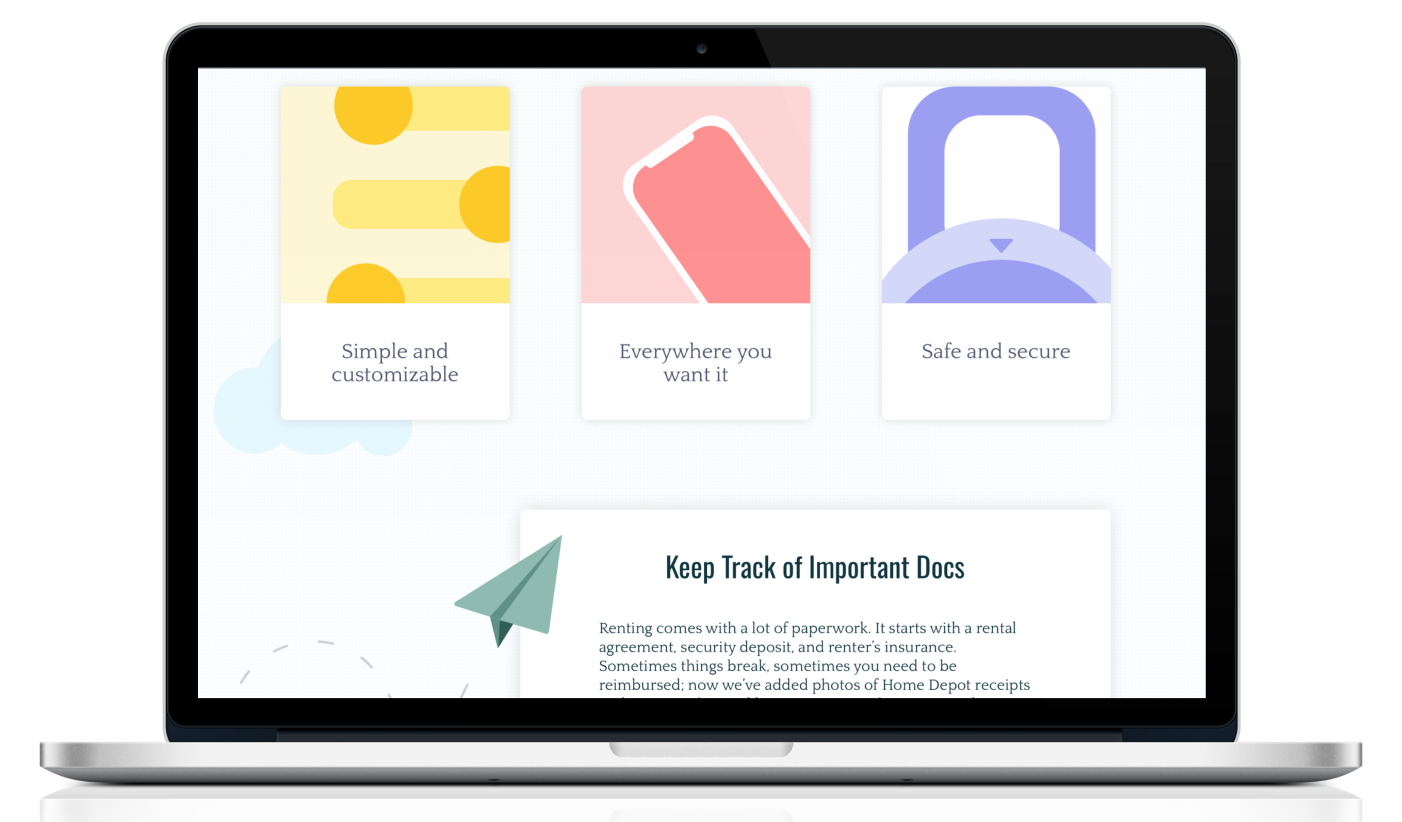
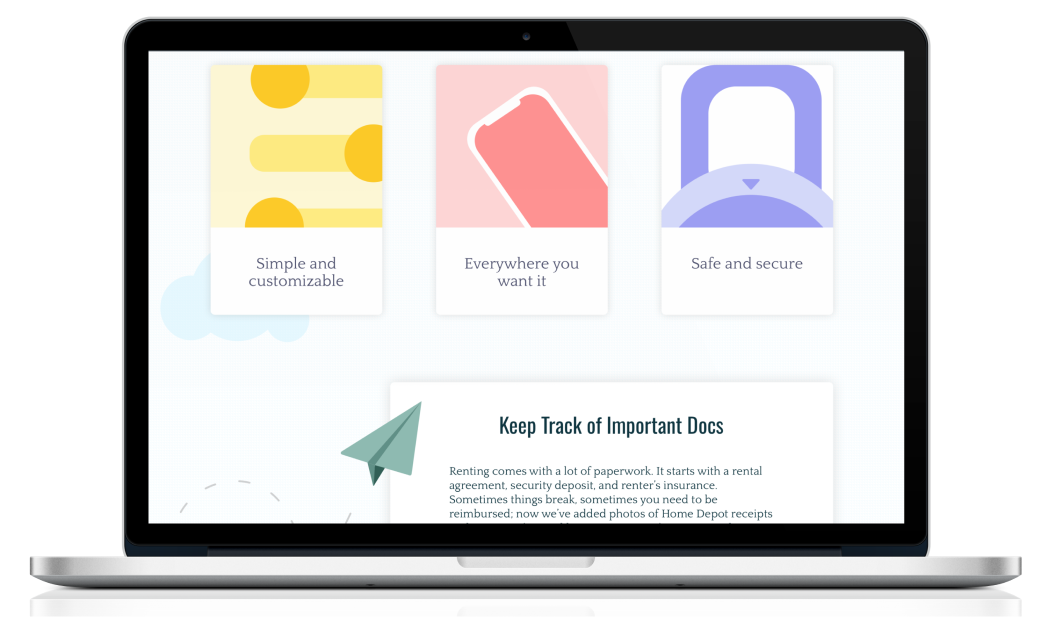
added button styleing

diff --git a/index.html b/index.html
@@ -5,7 +5,7 @@
     <meta name="viewport" content="width=device-width, initial-scale=1.0">
     <link rel="stylesheet" type="text/css" href="css/reset.css">
     <link rel="stylesheet" type="text/css" href="css/styles.css">
-    <link href="https://fonts.googleapis.com/css?family=Source+Sans+Pro:400,600,700&display=swap" rel="stylesheet">
+    <link href="https://fonts.googleapis.com/css?family=Source+Sans+Pro:300,400,600,700&display=swap" rel="stylesheet">
     <link href="https://fonts.googleapis.com/css?family=Source+Code+Pro:600&display=swap" rel="stylesheet">
     <link rel="stylesheet" type="text/css" href="css/flex.css">
     <title>David Cynman's Portfolio</title>
@@ -32,7 +32,7 @@
     <section class="hero">
       <div class="heroContent">
         <h1>I’m a Santa Barbara based UX/UI designer with a background in psychological and anthropological research. Empathy and empiricism drive my process.</h1>
-        <a href='link'>Get in touch</a>
+        <button class="getInTouchButton" style="vertical-align:middle"><span>Get in Touch</span></button>
       </div>
       <div class="downArrow">
         <p>WORK</p>
@@ -50,7 +50,7 @@
         <h2>Berry Lane Partners and Liberty Hudson Construction</h2>
         <h1>Real estate investing from the ground up</h1>
         <h3>BRAND IDENTITY / DESIGN</h3>
-        <a href='linktobxbcasestudy'>Read case study</a>
+        <button class="caseStudyButton" style="vertical-align:middle"><span>Read case study</span></button>
       </div>
       <figure class="mockupContainer">
         <img id="hand" src='images/landingPage/bxbMockup.png' alt='Hand Holding iPhone'>
@@ -66,7 +66,7 @@
         <h2>The Center for Mindfulness and Human Potential</h2>
         <h1>Teacher tools for mindful classrooms</h1>
         <h3>UX RESEARCH + DESIGN / UI DESIGN</h3>
-        <a href='linktoEBCCaseStudy'>Read case study</a>
+        <button class="caseStudyButton" style="vertical-align:middle"><span>Read case study</span></button>
       </div>
       <figure class="mockupContainer" style="order: 1">
         <img src='images/landingPage/ebcMockup.png' alt='Phones Displaying App Screens'>
@@ -82,43 +82,44 @@
         <h2>Renter's Wallet</h2>
         <h1>Stop losing rental docs.<br>Save money.</h1>
         <h3>UX RESEARCH + DESIGN / UI DESIGN</h3>
-        <a href='rentersWallet.html'>Read case study</a>
+        <button class="caseStudyButton" style="vertical-align:middle"><span>Read case study</span></button>
       </div>
       <figure class="mockupContainer">
-        <img src='images/landingPage/rwMockup.png' alt='Computer Displaying Renter&#39;s Wallet Screen'>
+        <img id="laptop"src='images/landingPage/rwMockup.png' alt='Computer Displaying Renter&#39;s Wallet Screen'>
       </figure>
     </article>
 
     <!--footer here-->
     <footer>
+      <div class="footerText">
       <h2>Get in touch</h2>
       <p>Thanks for stopping by. If you have any questions, please feel free to reach out</p>
 
       <!--social icons-->
       <ul class='social'>
-        <li>
-          <a href="emaillink">
-            <img src="images/landingPage/emailIcon.png" alt="email">
-          </a>
-        </li>
-        <li>
-          <a href="linkedIn">
-            <img src="images/landingPage/linkedinIcon.png" alt="LinkedIn">
-          </a>
-        </li>
-        <li>
-          <a href="GitHub">
-            <img src="images/landingPage/githubIcon.png" alt="GitHub">
-          </a>
-        </li>
-        <li>
-          <a href="Instagram">
-            <img src="images/landingPage/instagramIcon.png" alt="Instagram">
-          </a>
-        </li>
-      </ul>
-
-      <h6 class='copyright'>Designed and Developed by David Cynman | &copy; 2019<h6>
+          <li>
+            <a href="emaillink">
+              <img src="images/landingPage/emailIcon.png" alt="email">
+            </a>
+          </li>
+          <li>
+            <a href="linkedIn">
+              <img src="images/landingPage/linkedinIcon.png" alt="LinkedIn">
+            </a>
+          </li>
+          <li>
+            <a href="GitHub">
+              <img src="images/landingPage/githubIcon.png" alt="GitHub">
+            </a>
+          </li>
+          <li>
+            <a href="Instagram">
+              <img src="images/landingPage/instagramIcon.png" alt="Instagram">
+            </a>
+          </li>
+        </ul>
+        <h6 class='copyright'>Designed and Developed by David Cynman | &copy; 2019<h6>
+      </div>
     </footer>
   </div>
   </body>

diff --git a/CSS/styles.css b/CSS/styles.css
@@ -50,6 +50,12 @@ h3 {
   font-weight: 600;
 }
 
+h6 {
+  font-family: 'Source Code Pro', monospace;
+  font-size: 1rem;
+  font-weight: 400;
+}
+
 p {
   line-height: 167%;
 }
@@ -92,6 +98,11 @@ p {
   max-width: 70%;
 }
 
+#laptop {
+  max-width: 85%;
+  padding-right: 1.5em;
+}
+
 .logoContainer img {
   width: 10rem;
 }
@@ -107,6 +118,85 @@ p {
 .RW {
   padding-top: 10rem;
   padding-bottom: 10rem;
+}
+
+/*Padding to the left and right of text blocks */
+.bxbContainer, .RWContainer {
+  padding-left: 13rem;
+  align-items: center;
+}
+
+.CMHPContainer {
+  padding-right: 13rem;
+}
+
+footer {
+  background-color: #F2F5F5;
+  padding: 6.5rem;
+  text-align: center;
+}
+
+footer h2 {
+  font-weight: 300;
+  font-size: 2rem;
+  padding-bottom: 3rem;
+}
+
+footer p {
+  font-size: 1.3rem;
+  font-weight: 300;
+  padding-bottom: 1.5rem;
+}
+
+.social {
+  padding-bottom: 1.5rem;
+}
+
+
+
+/*button styling*/
+.caseStudyButton, .getInTouchButton {
+  border-radius: .5rem;
+  background-color: #E9B327;
+  border: none;
+  color: #FFFFFF;
+  text-align: center;
+  font-size: 1.5rem;
+  padding: .7rem;
+  width: 15rem;
+  transition: all 0.5s;
+  cursor: pointer;
+  margin-top: 1.5rem;
+  box-shadow: 0 8px 16px 0 rgba(0,0,0,0.08), 0 6px 20px 0 rgba(0,0,0,0.08);
+}
+
+.caseStudyButton span, .getInTouchButton span {
+  cursor: pointer;
+  display: inline-block;
+  position: relative;
+  transition: 0.5s;
+}
+
+.caseStudyButton span:after, .getInTouchButton span:after {
+  content: '\00bb';
+  position: absolute;
+  opacity: 0;
+  top: 0;
+  right: -20px;
+  transition: 0.5s;
+}
+
+.caseStudyButton:hover span, .getInTouchButton:hover span {
+  padding-right: 25px;
+}
+
+.caseStudyButton:hover span:after,  .getInTouchButton:hover span:after {
+  opacity: 1;
+  right: 0;
+}
+
+.getInTouchButton {
+  margin-top: 3rem;
 }
 
 /*

diff --git a/CSS/flex.css b/CSS/flex.css
@@ -81,6 +81,7 @@
   display: flex;
   flex-direction: column;
   justify-content: center;
+  align-items: center;
   width: 45%;
   padding-top: 20%;
   padding-bottom: 20%;
@@ -91,4 +92,47 @@
   justify-content: flex-end;
   display: flex;
   width: 55%;
+}
+
+.CMHP .mockupContainer {
+  justify-content: flex-start;
+}
+
+footer {
+  display: flex;
+  flex-direction: column;
+  align-items: center;
+}
+
+.footerText {
+  display: flex;
+  flex-direction: column;
+  align-items: center;
+}
+
+.footerText {
+  display: flex;
+  flex-direction: column;
+  justify-content: center;
+  align-items: center;
+}
+
+.social {
+  display: flex;
+  align-items: center;
+  width: 60%;
+}
+
+.social img {
+  max-width: 60%;
+}
+
+.copyright {
+margin-top: 4rem;
+}
+
+.caseStudyButton {
+  display: flex;
+  align-items: center;
+  justify-content: center;
 }

diff --git a/about.html b/about.html
@@ -5,7 +5,7 @@
     <meta name="viewport" content="width=device-width, initial-scale=1.0">
     <link rel="stylesheet" type="text/css" href="css/reset.css">
     <link rel="stylesheet" type="text/css" href="css/styles.css">
-    <link href="https://fonts.googleapis.com/css?family=Source+Sans+Pro:400,600,700&display=swap" rel="stylesheet">
+    <link href="https://fonts.googleapis.com/css?family=Source+Sans+Pro:300,400,600,700&display=swap" rel="stylesheet">
     <link href="https://fonts.googleapis.com/css?family=Source+Code+Pro:600&display=swap" rel="stylesheet">
     <title>About: David Cynman</title>
   </head>

diff --git a/rentersWallet.html b/rentersWallet.html
@@ -5,7 +5,7 @@
     <meta name="viewport" content="width=device-width, initial-scale=1.0">
     <link rel="stylesheet" type="text/css" href="css/reset.css">
     <link rel="stylesheet" type="text/css" href="css/styles.css">
-    <link href="https://fonts.googleapis.com/css?family=Source+Sans+Pro:400,600,700&display=swap" rel="stylesheet">
+    <link href="https://fonts.googleapis.com/css?family=Source+Sans+Pro:300,400,600,700&display=swap" rel="stylesheet">
     <link href="https://fonts.googleapis.com/css?family=Source+Code+Pro:600&display=swap" rel="stylesheet">
     <title>Renter's Wallet</title>
   </head>
